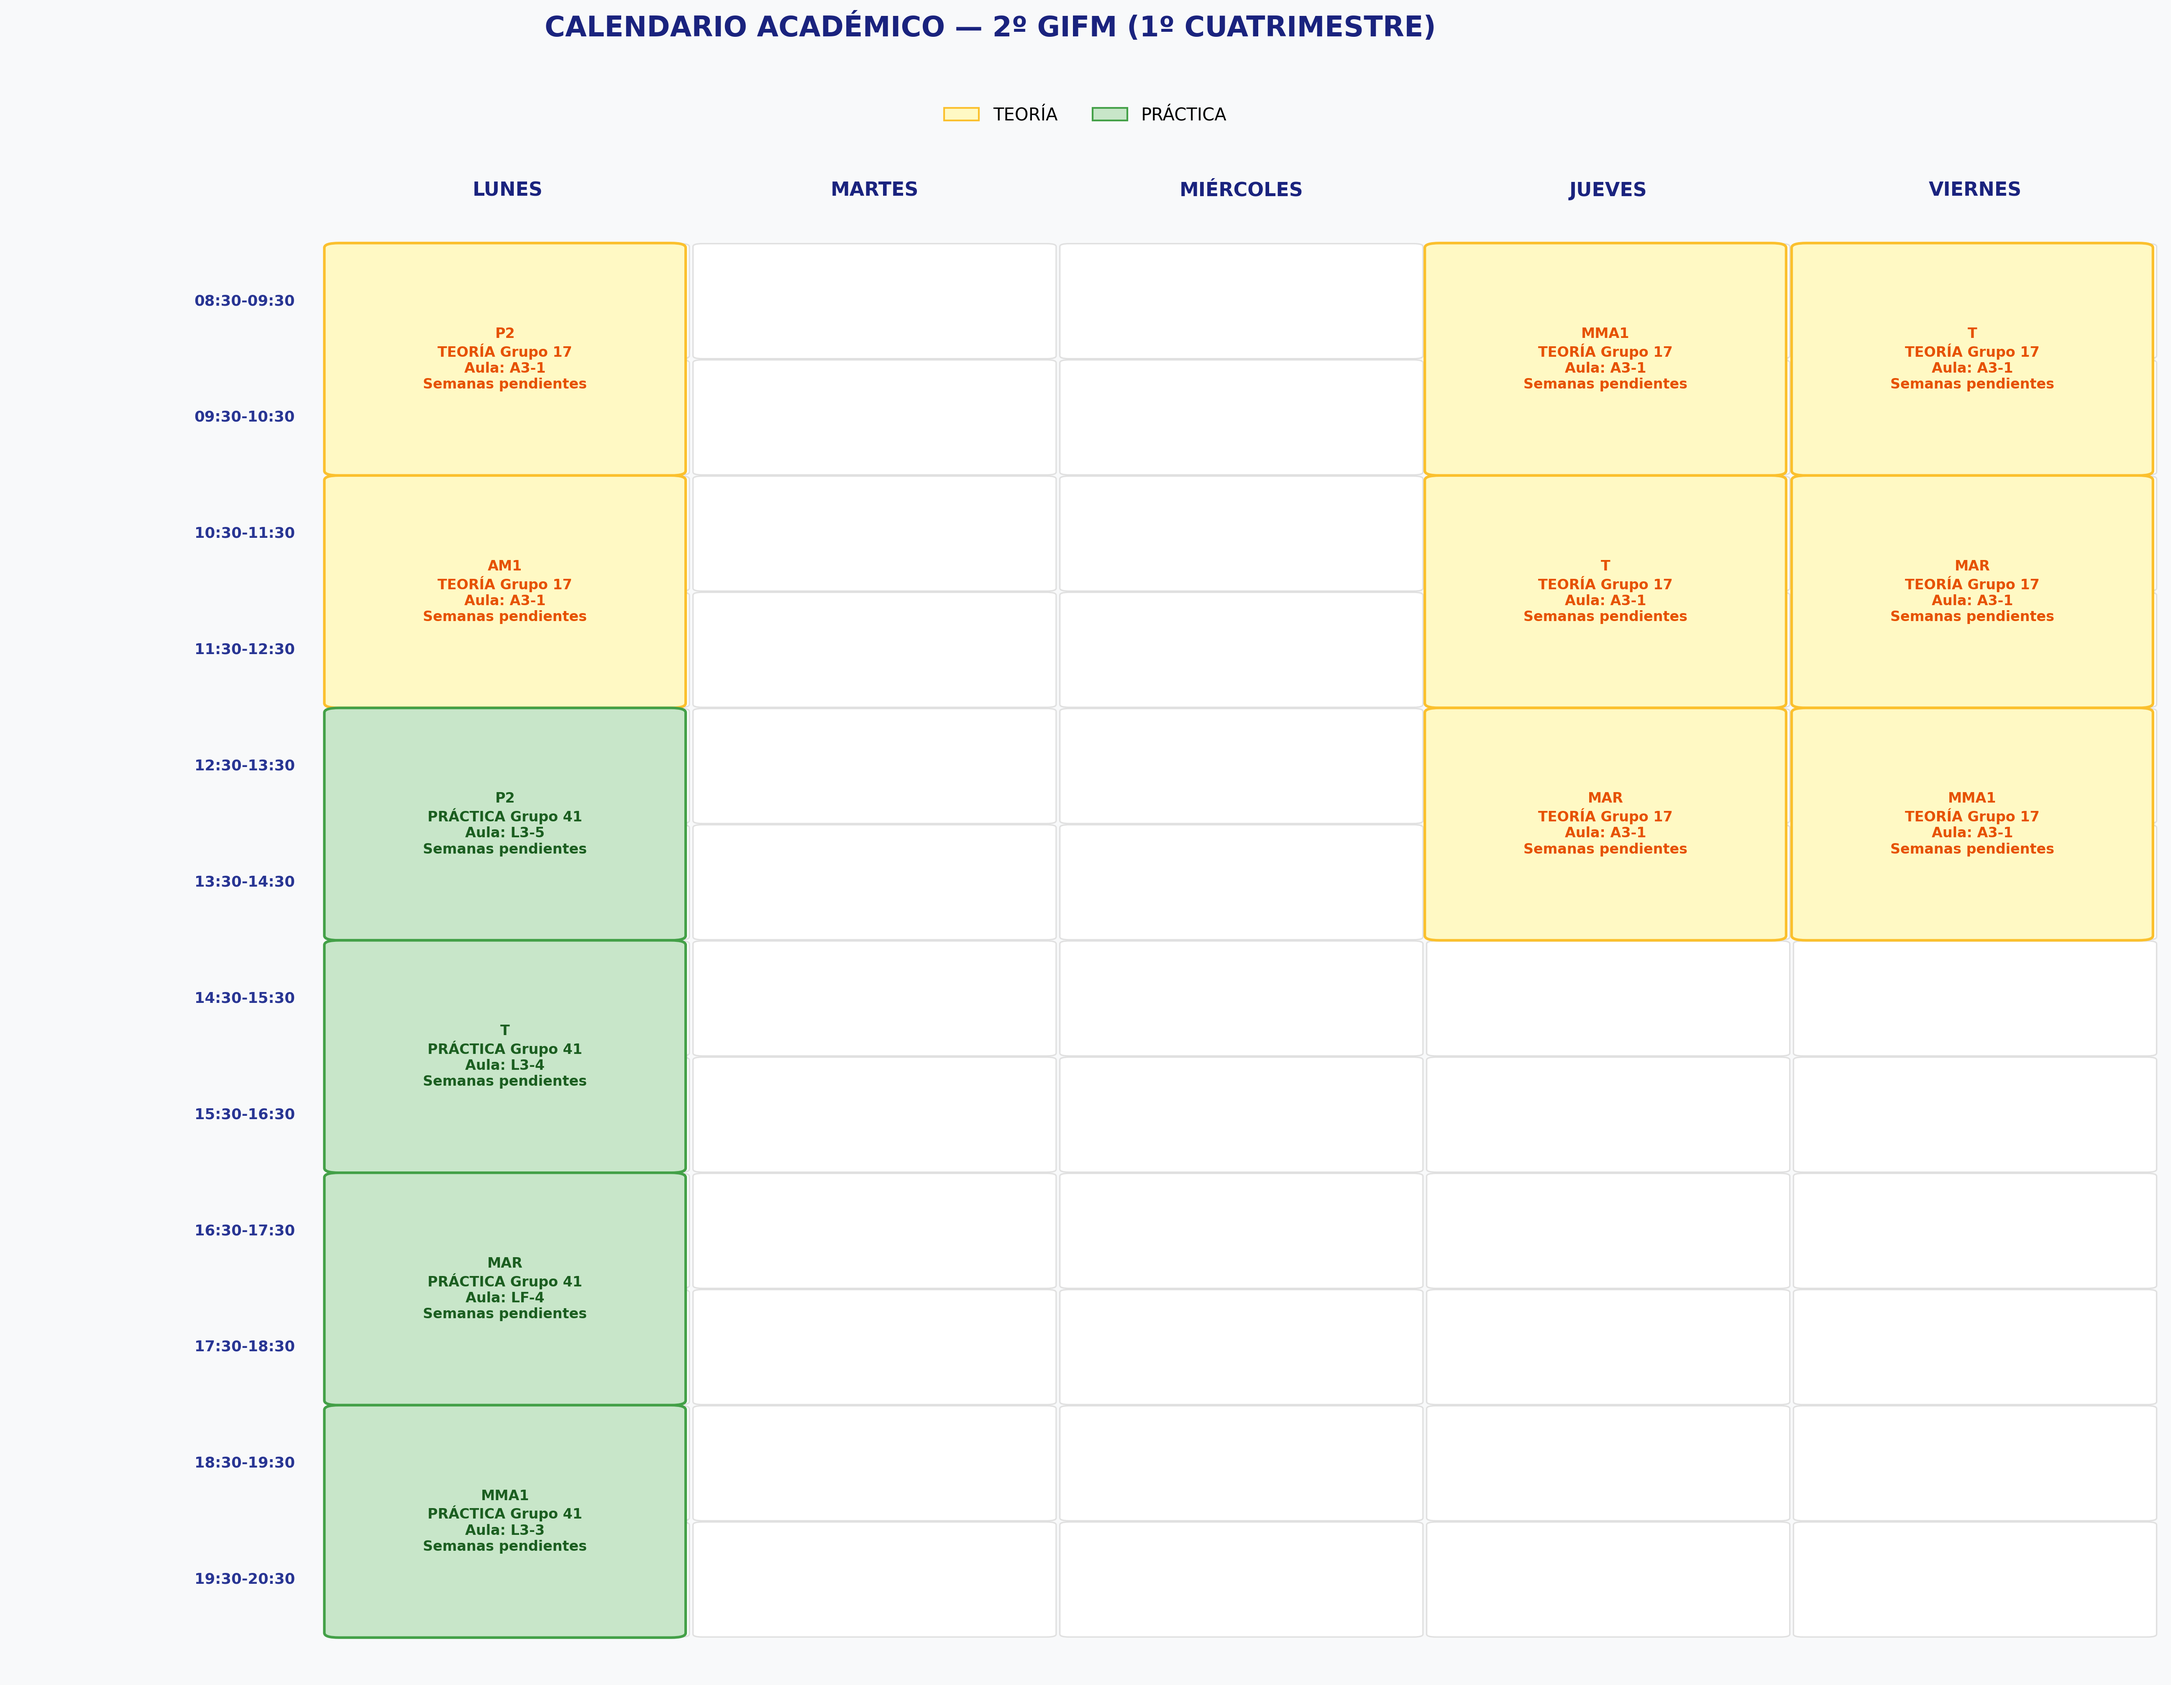
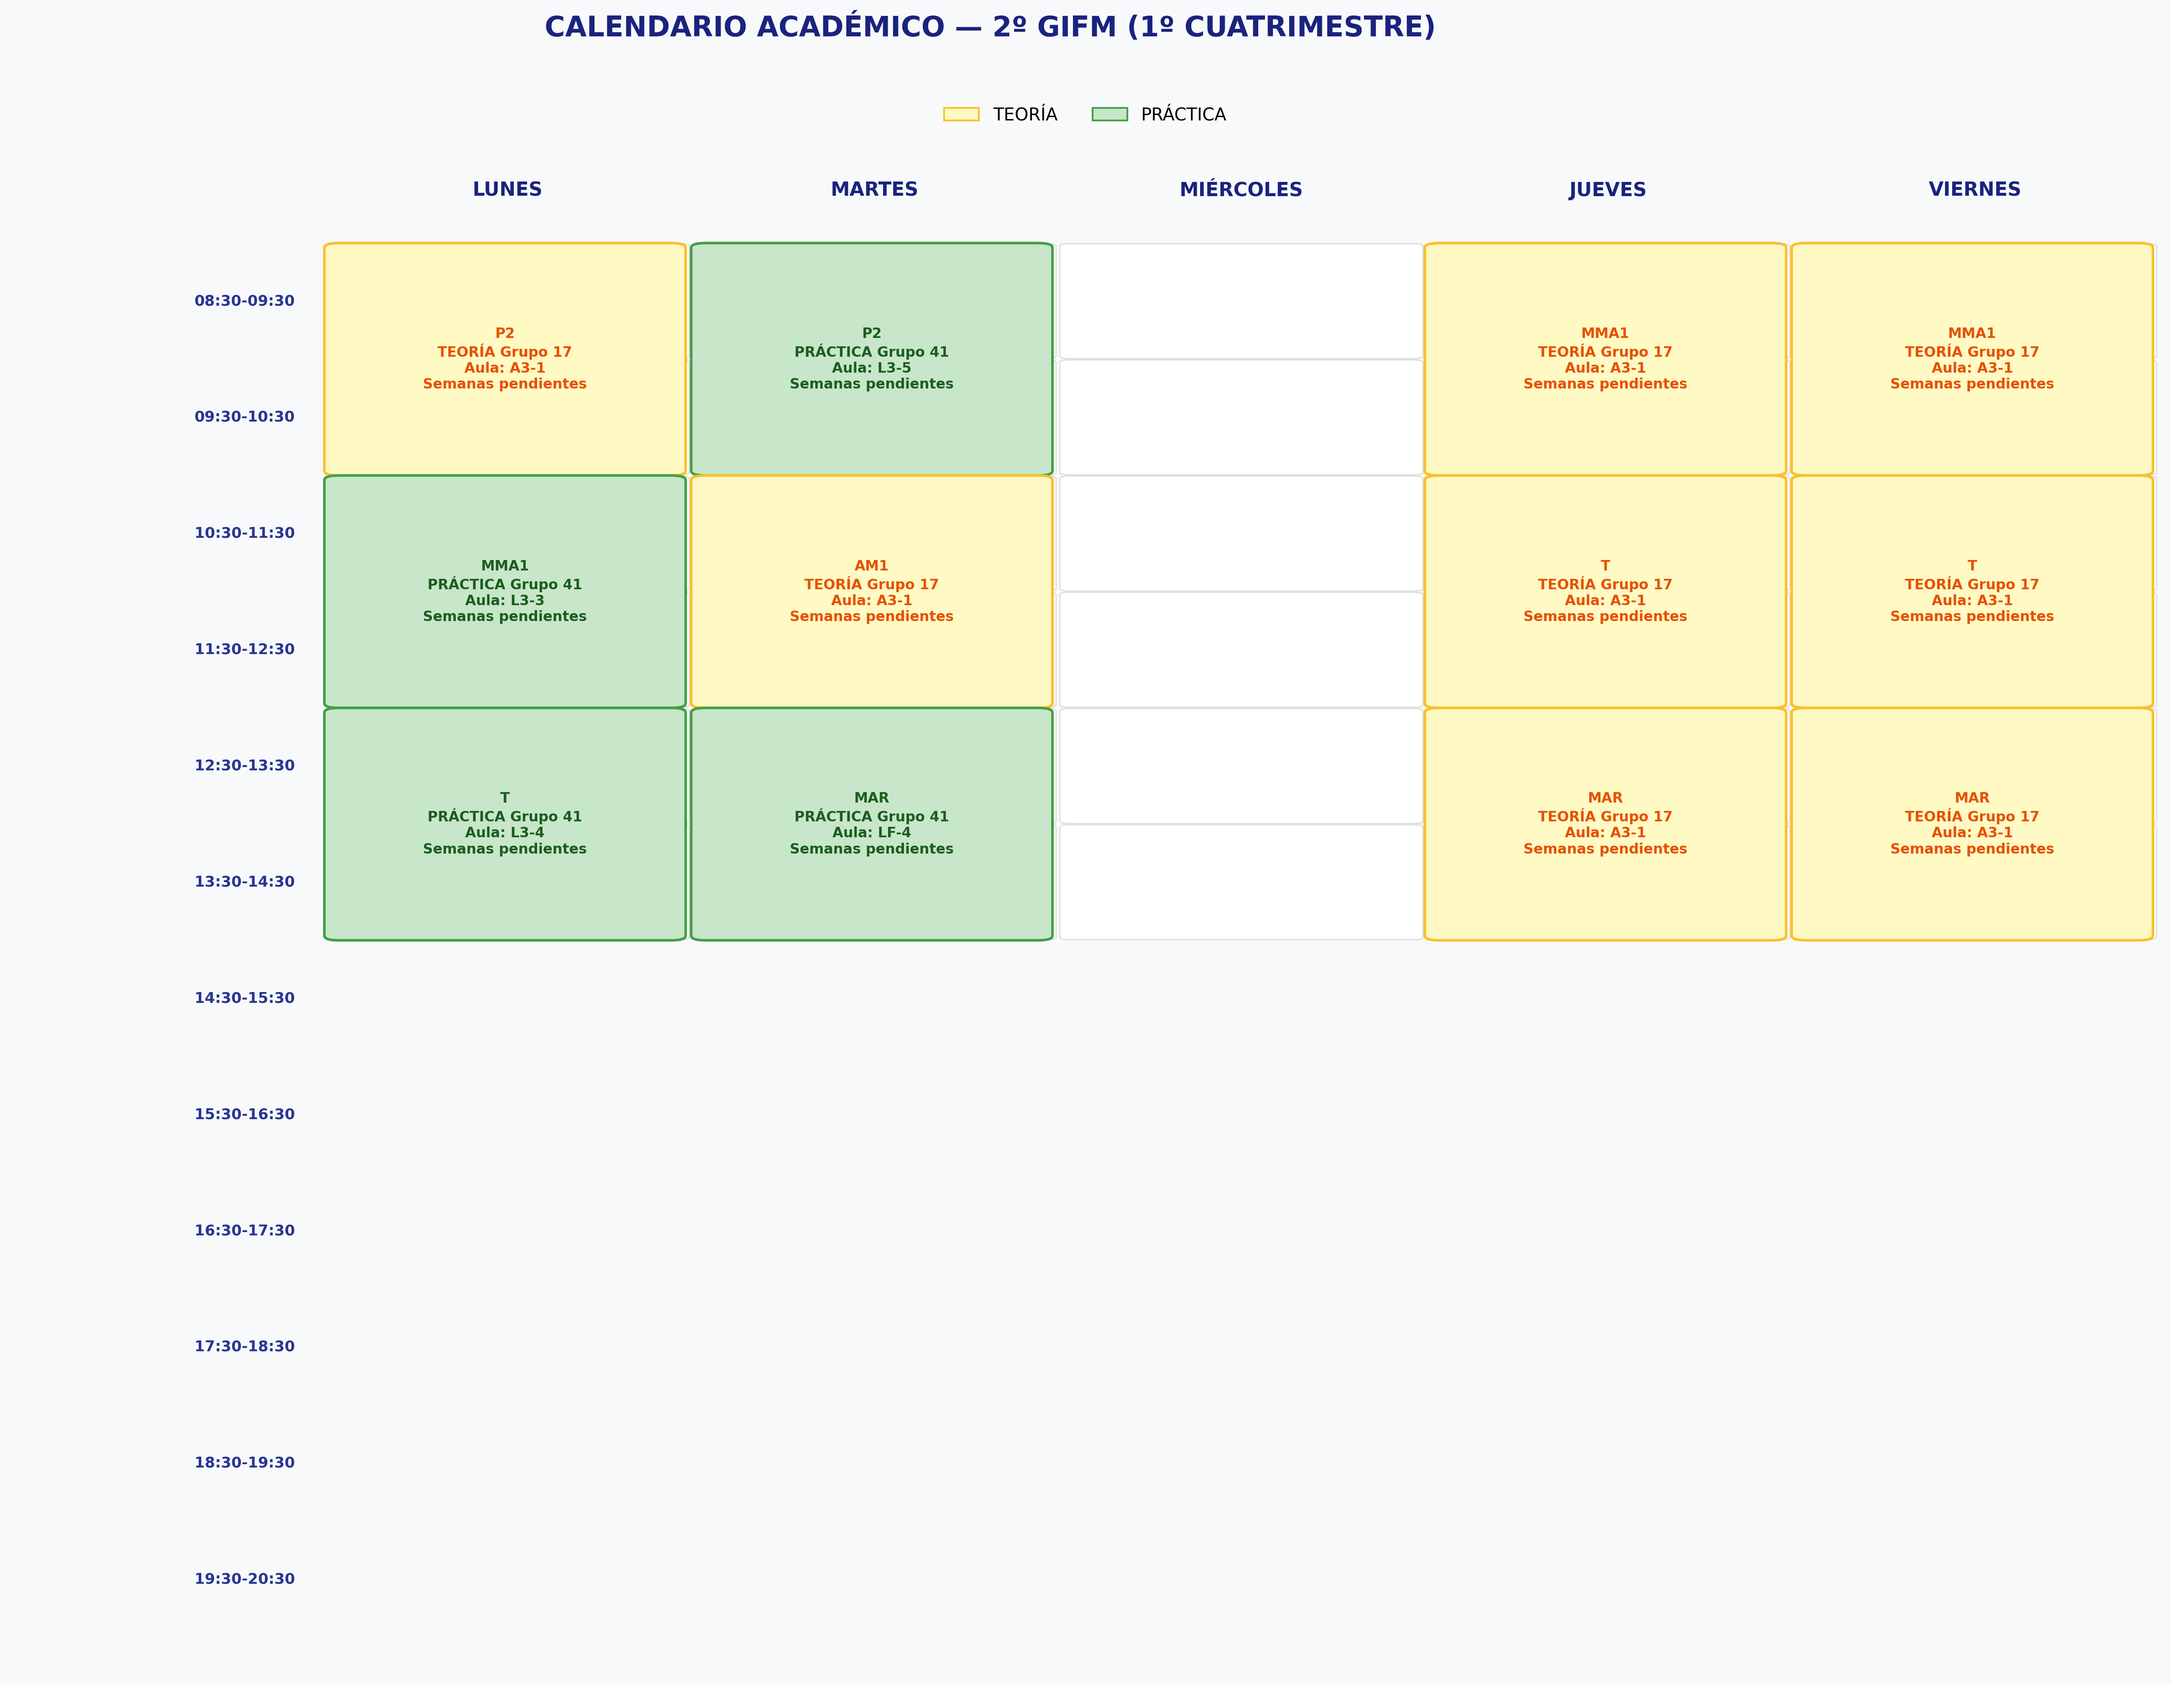
Corregir horario lectivo de 08:30 a 14:30

Changed region(s): [[0.1249, 0.1241, 0.4994, 0.9928]]

diff --git a/src/visualizador.py b/src/visualizador.py
@@ -18,7 +18,7 @@ HORAS = [
     for hora in range(8, 20)
 ]
 
-HORAS_POR_DIA = 12
+HORAS_POR_DIA = 6
 
 ESTILO_TIPO = {
     "teoria": {
@@ -221,7 +221,7 @@ def exportar_horario_png(
     Exporta el horario semanal a PNG.
 
     - 5 días, de lunes a viernes.
-    - 12 franjas horarias, de 08:30 a 20:30.
+    - 12 franjas horarias, de 08:30 a 14:30.
     - Bloques de 1 o 2 horas.
     - Diferenciación visual entre teoría y práctica.
     - Muestra las semanas activas de cada actividad.

diff --git a/src/modelo_base.py b/src/modelo_base.py
@@ -45,7 +45,7 @@ DIAS = [
 ]
 
 HORAS_INICIO = 8
-HORAS_FIN = 20
+HORAS_FIN = 14
 
 HORAS_POR_DIA = HORAS_FIN - HORAS_INICIO
 NUM_DIAS = len(DIAS)
